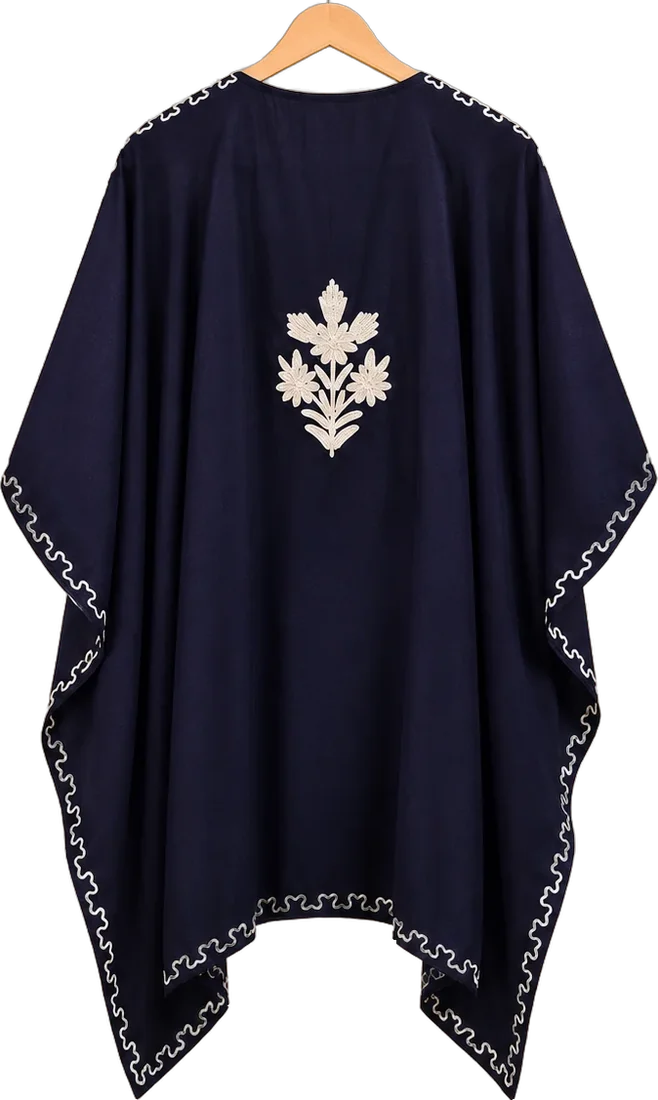
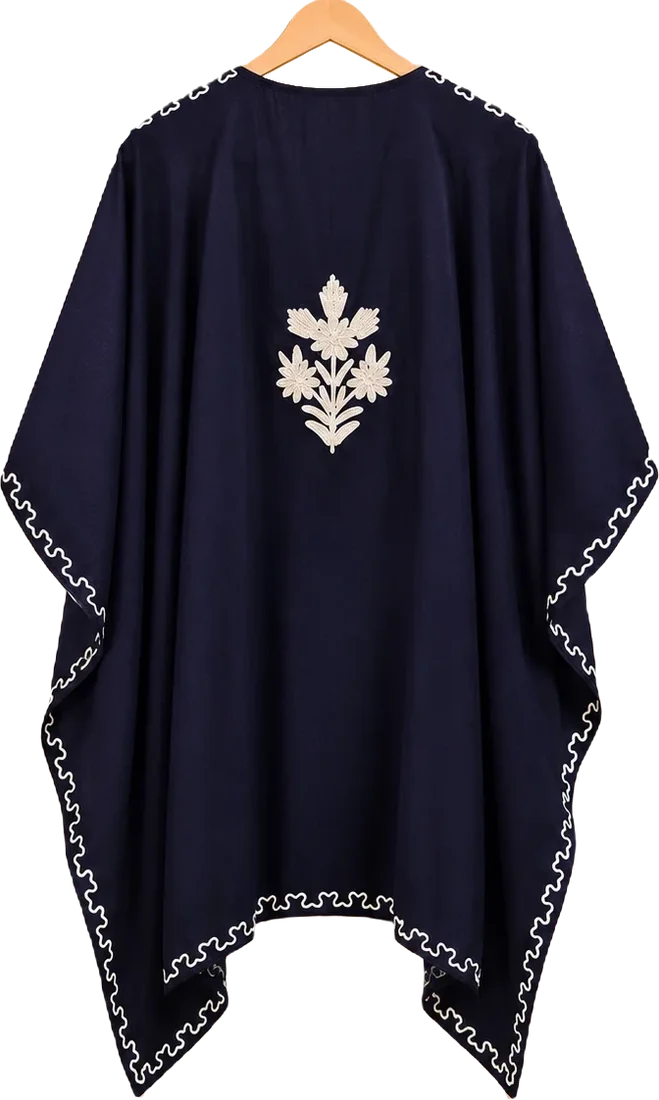
Replace the studio artwork with the admin tool's cut-outs

diff --git a/js/looks.js b/js/looks.js
@@ -14,7 +14,7 @@ const TONES = {
 const ART = (() => {
   const art = {};
   const add = (file, tone, photos) => ["front", "detail", "side", "back"].forEach((view, i) => {
-    const src = view === "detail" ? `/assets/detail/${file}.webp?v=3` : `/assets/cut/${file}-${view}.webp?v=2`;
+    const src = view === "detail" ? `/assets/detail/${file}.webp?v=4` : `/assets/cut/${file}-${view}.webp?v=3`;
     art[`/media/${photos[i]}`] = { src, view, cut: true, tone: TONES[tone] };
   });
   // photos in their original order: cover, close-up, side, back
